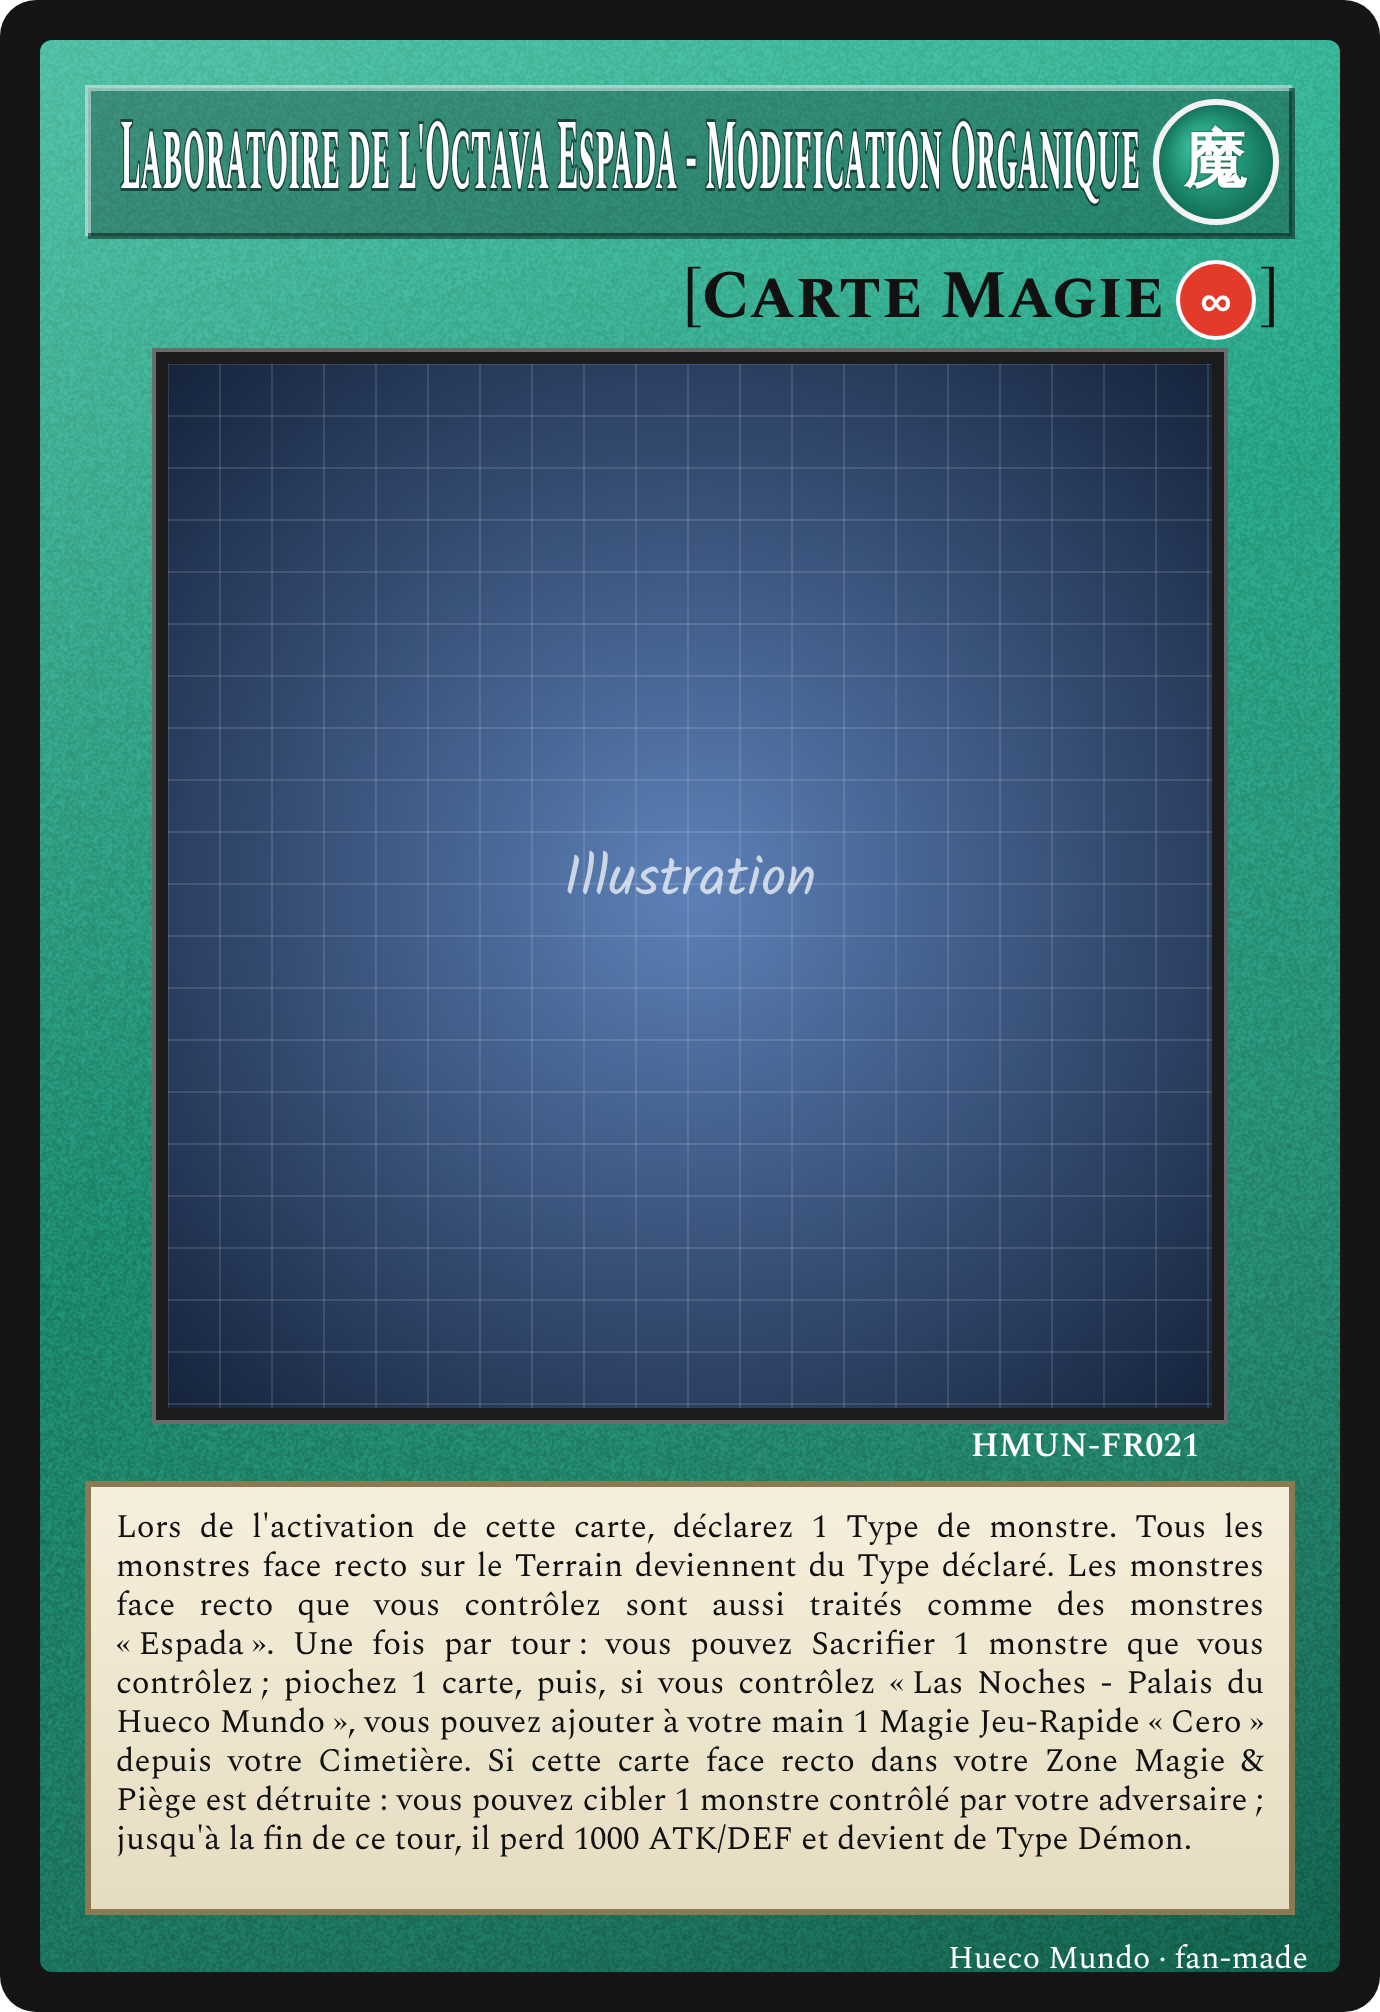
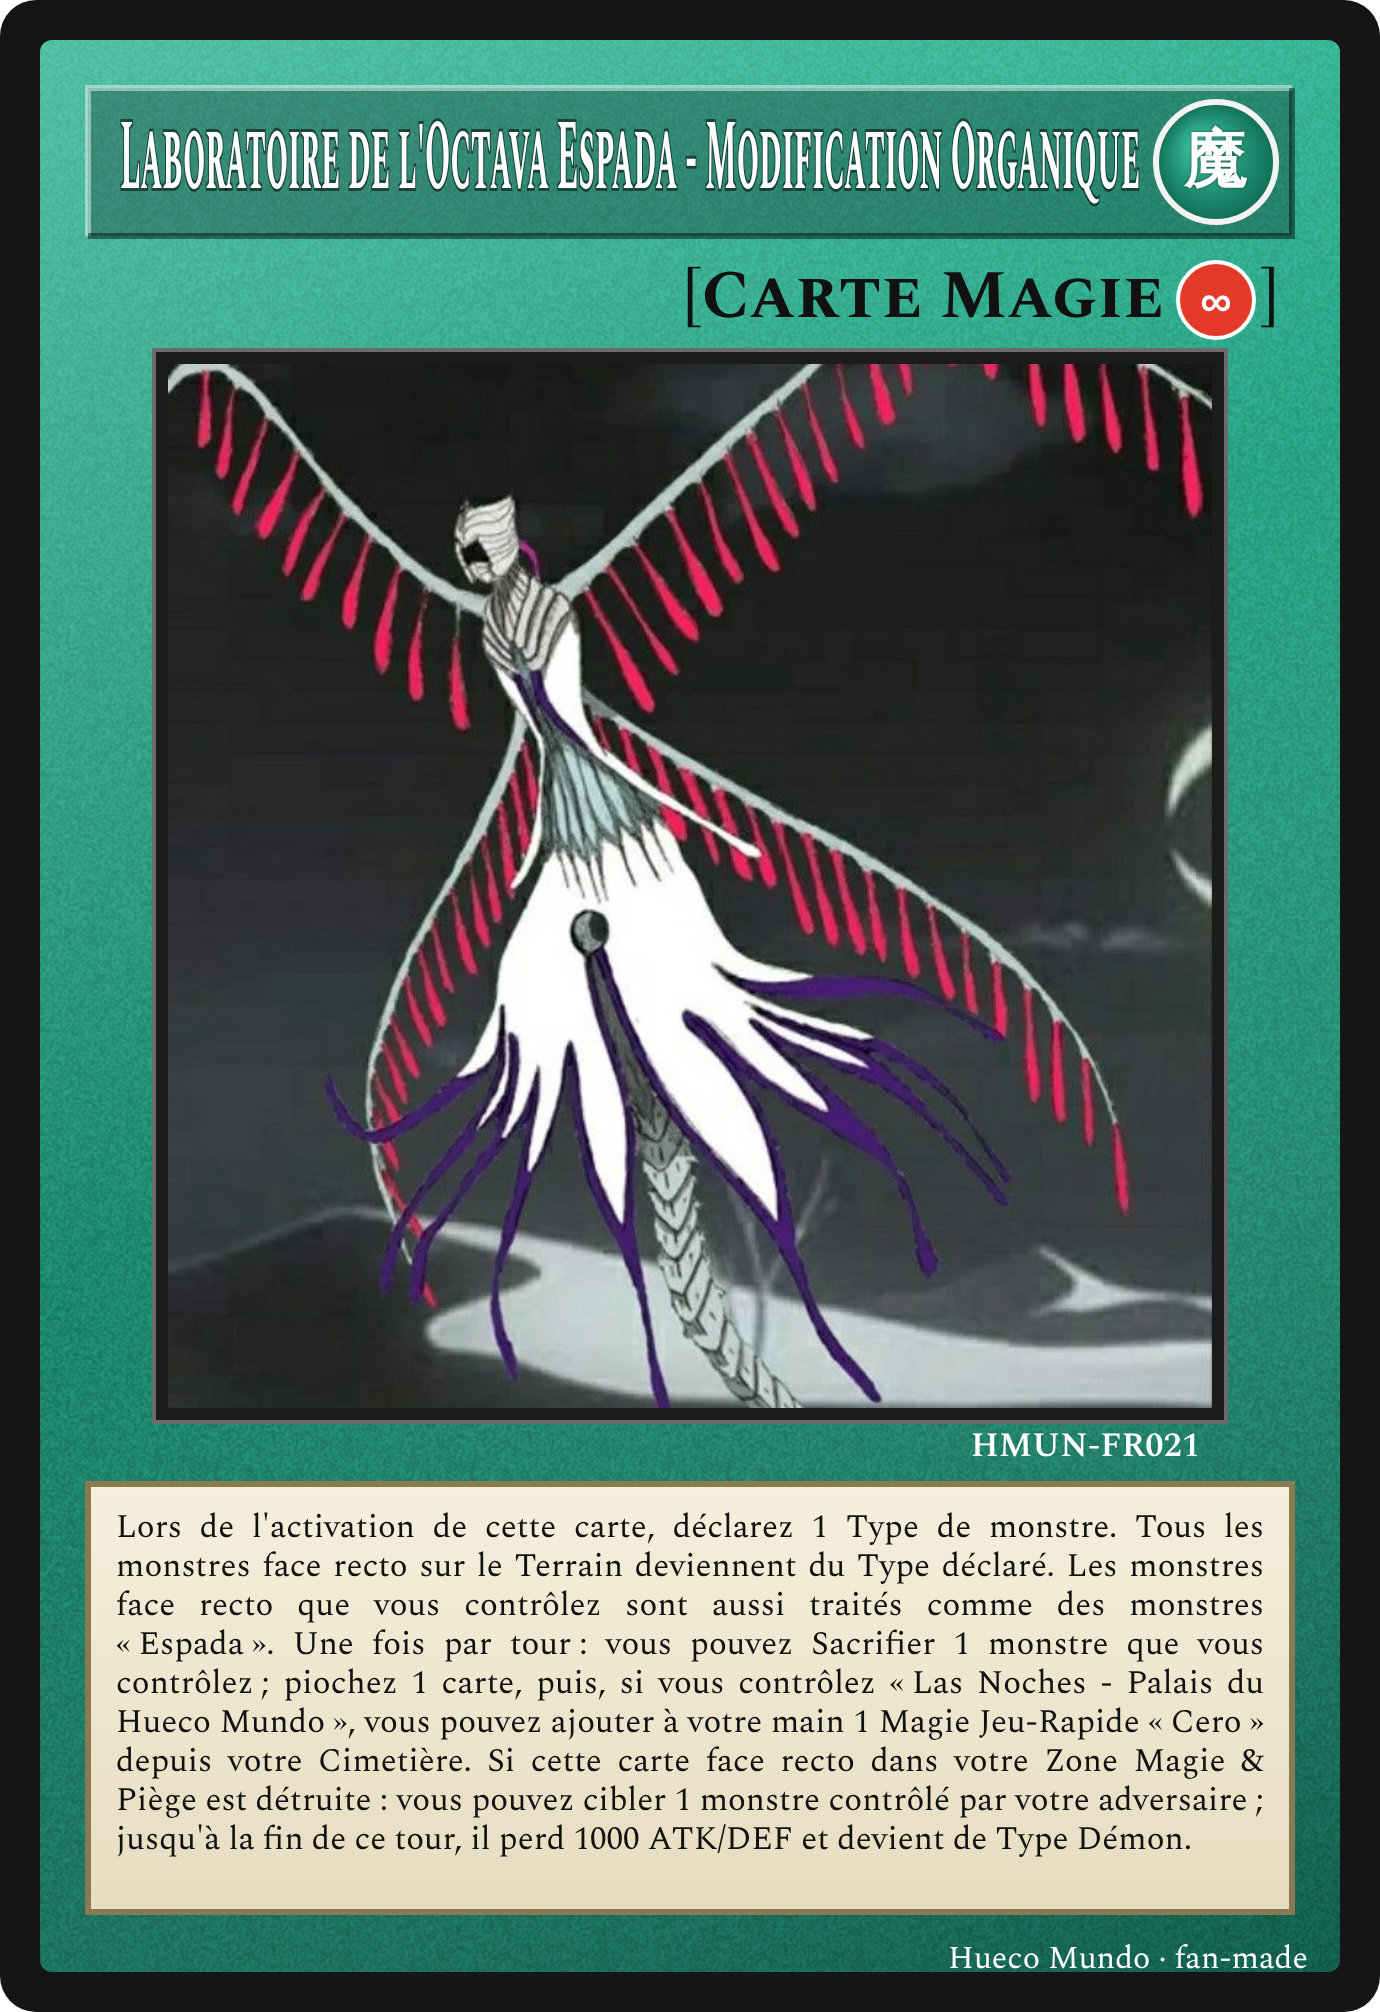
Hueco Mundo : visuel du Laboratoire de l'Octava Espada
Claude-Session: https://claude.ai/code/session_01CeiwhQp6R4Er8VccCFyYbK

diff --git a/archetypes/hueco-mundo/FICHE.md b/archetypes/hueco-mundo/FICHE.md
@@ -79,7 +79,7 @@ Magie Jeu-Rapide « Cero » (FR003).
 | HMUN-FR018 | Las Tres Bestias - Fracciones de la Chimère | Monstre à Effet EAU, Niv. 4, 1500/1500 | Terminée |
 | HMUN-FR019 | Ayon - Monstre de la Calamité | Monstre Fusion/Effet, Niv. 8, 3000/0 | Terminée |
 | HMUN-FR020 | Fracciones - Garde Servile de l'Espada | Monstre à Effet, Niv. 4, 1200/1000 | Terminée |
-| HMUN-FR021 | Laboratoire de l'Octava Espada - Modification Organique | Magie Continue | Texte validé · visuel à venir |
+| HMUN-FR021 | Laboratoire de l'Octava Espada - Modification Organique | Magie Continue | Terminée |
 | HMUN-FR013 | Lilynette Gingerbuck - La Fracción du Premier Espada | Monstre à Effet, Niv. 4, 1000/1000 | Terminée (visuel basse résolution, 288×432) |
 | HMUN-FR002 | Las Noches - Palais du Hueco Mundo | Magie de Terrain | Terminée |
 | HMUN-FR003 | Cero Oscuras - Le Cero Noir du Désespoir | Magie Jeu-Rapide | Terminée |
